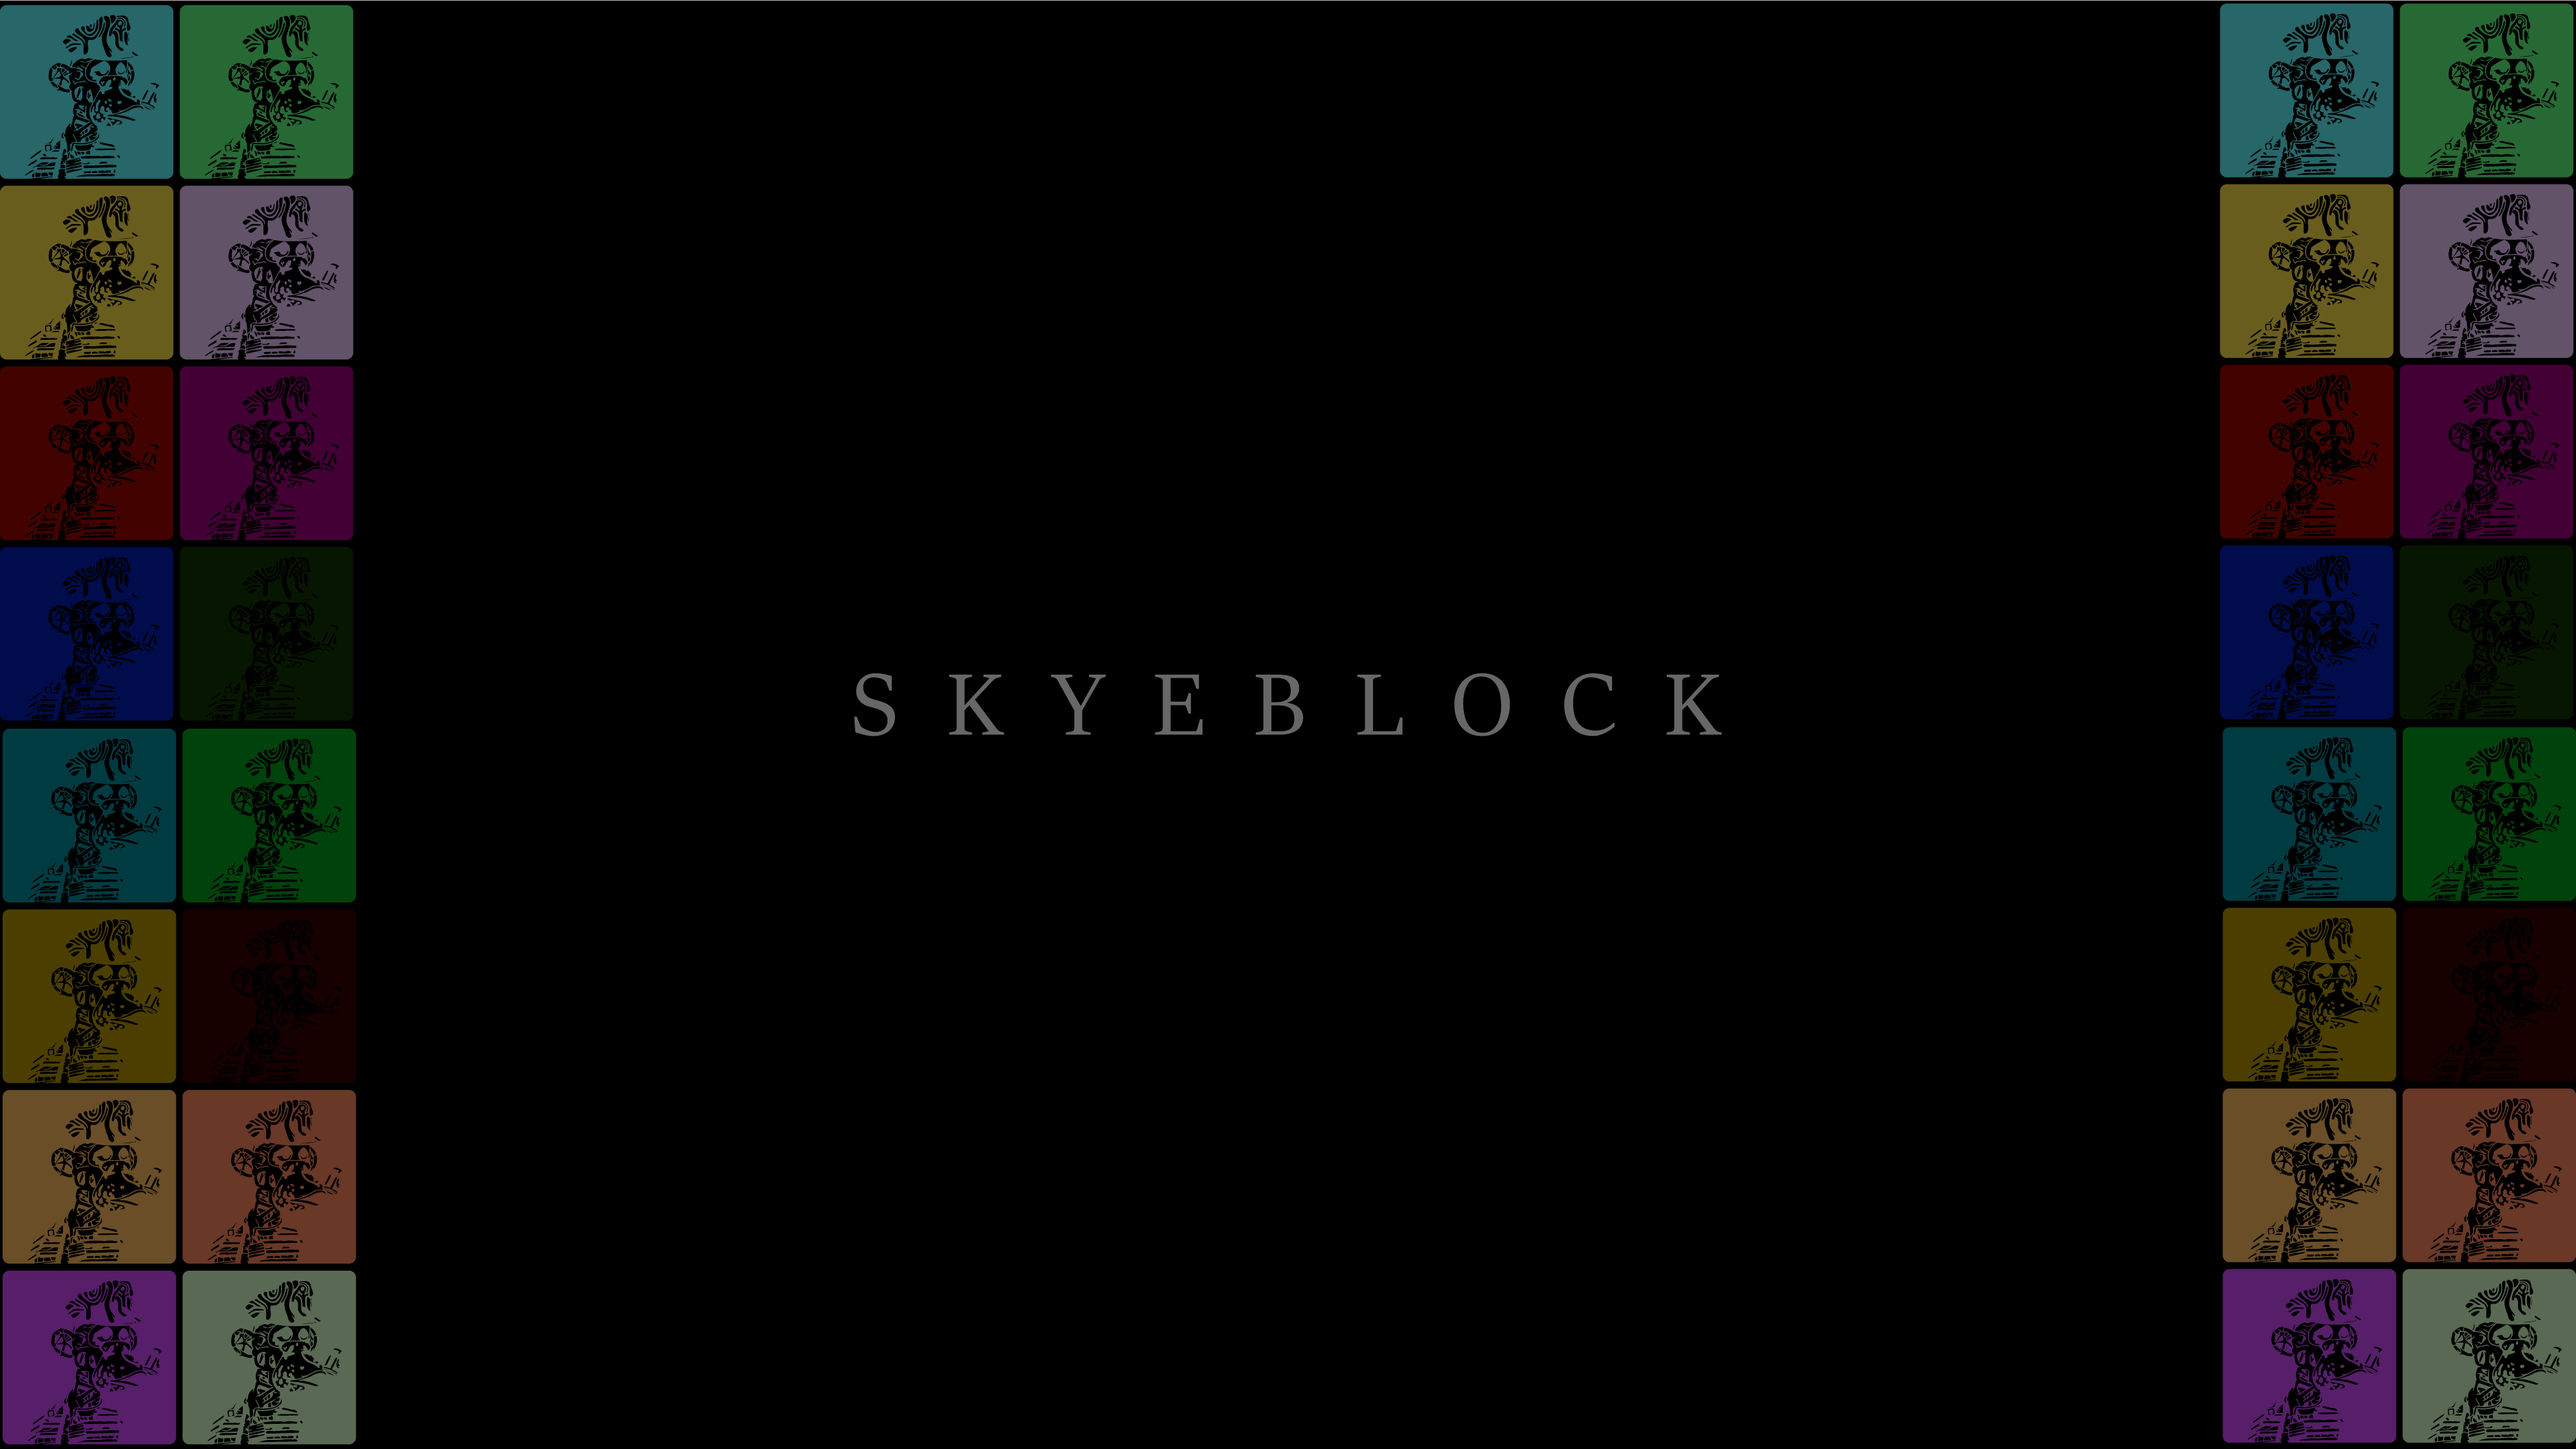
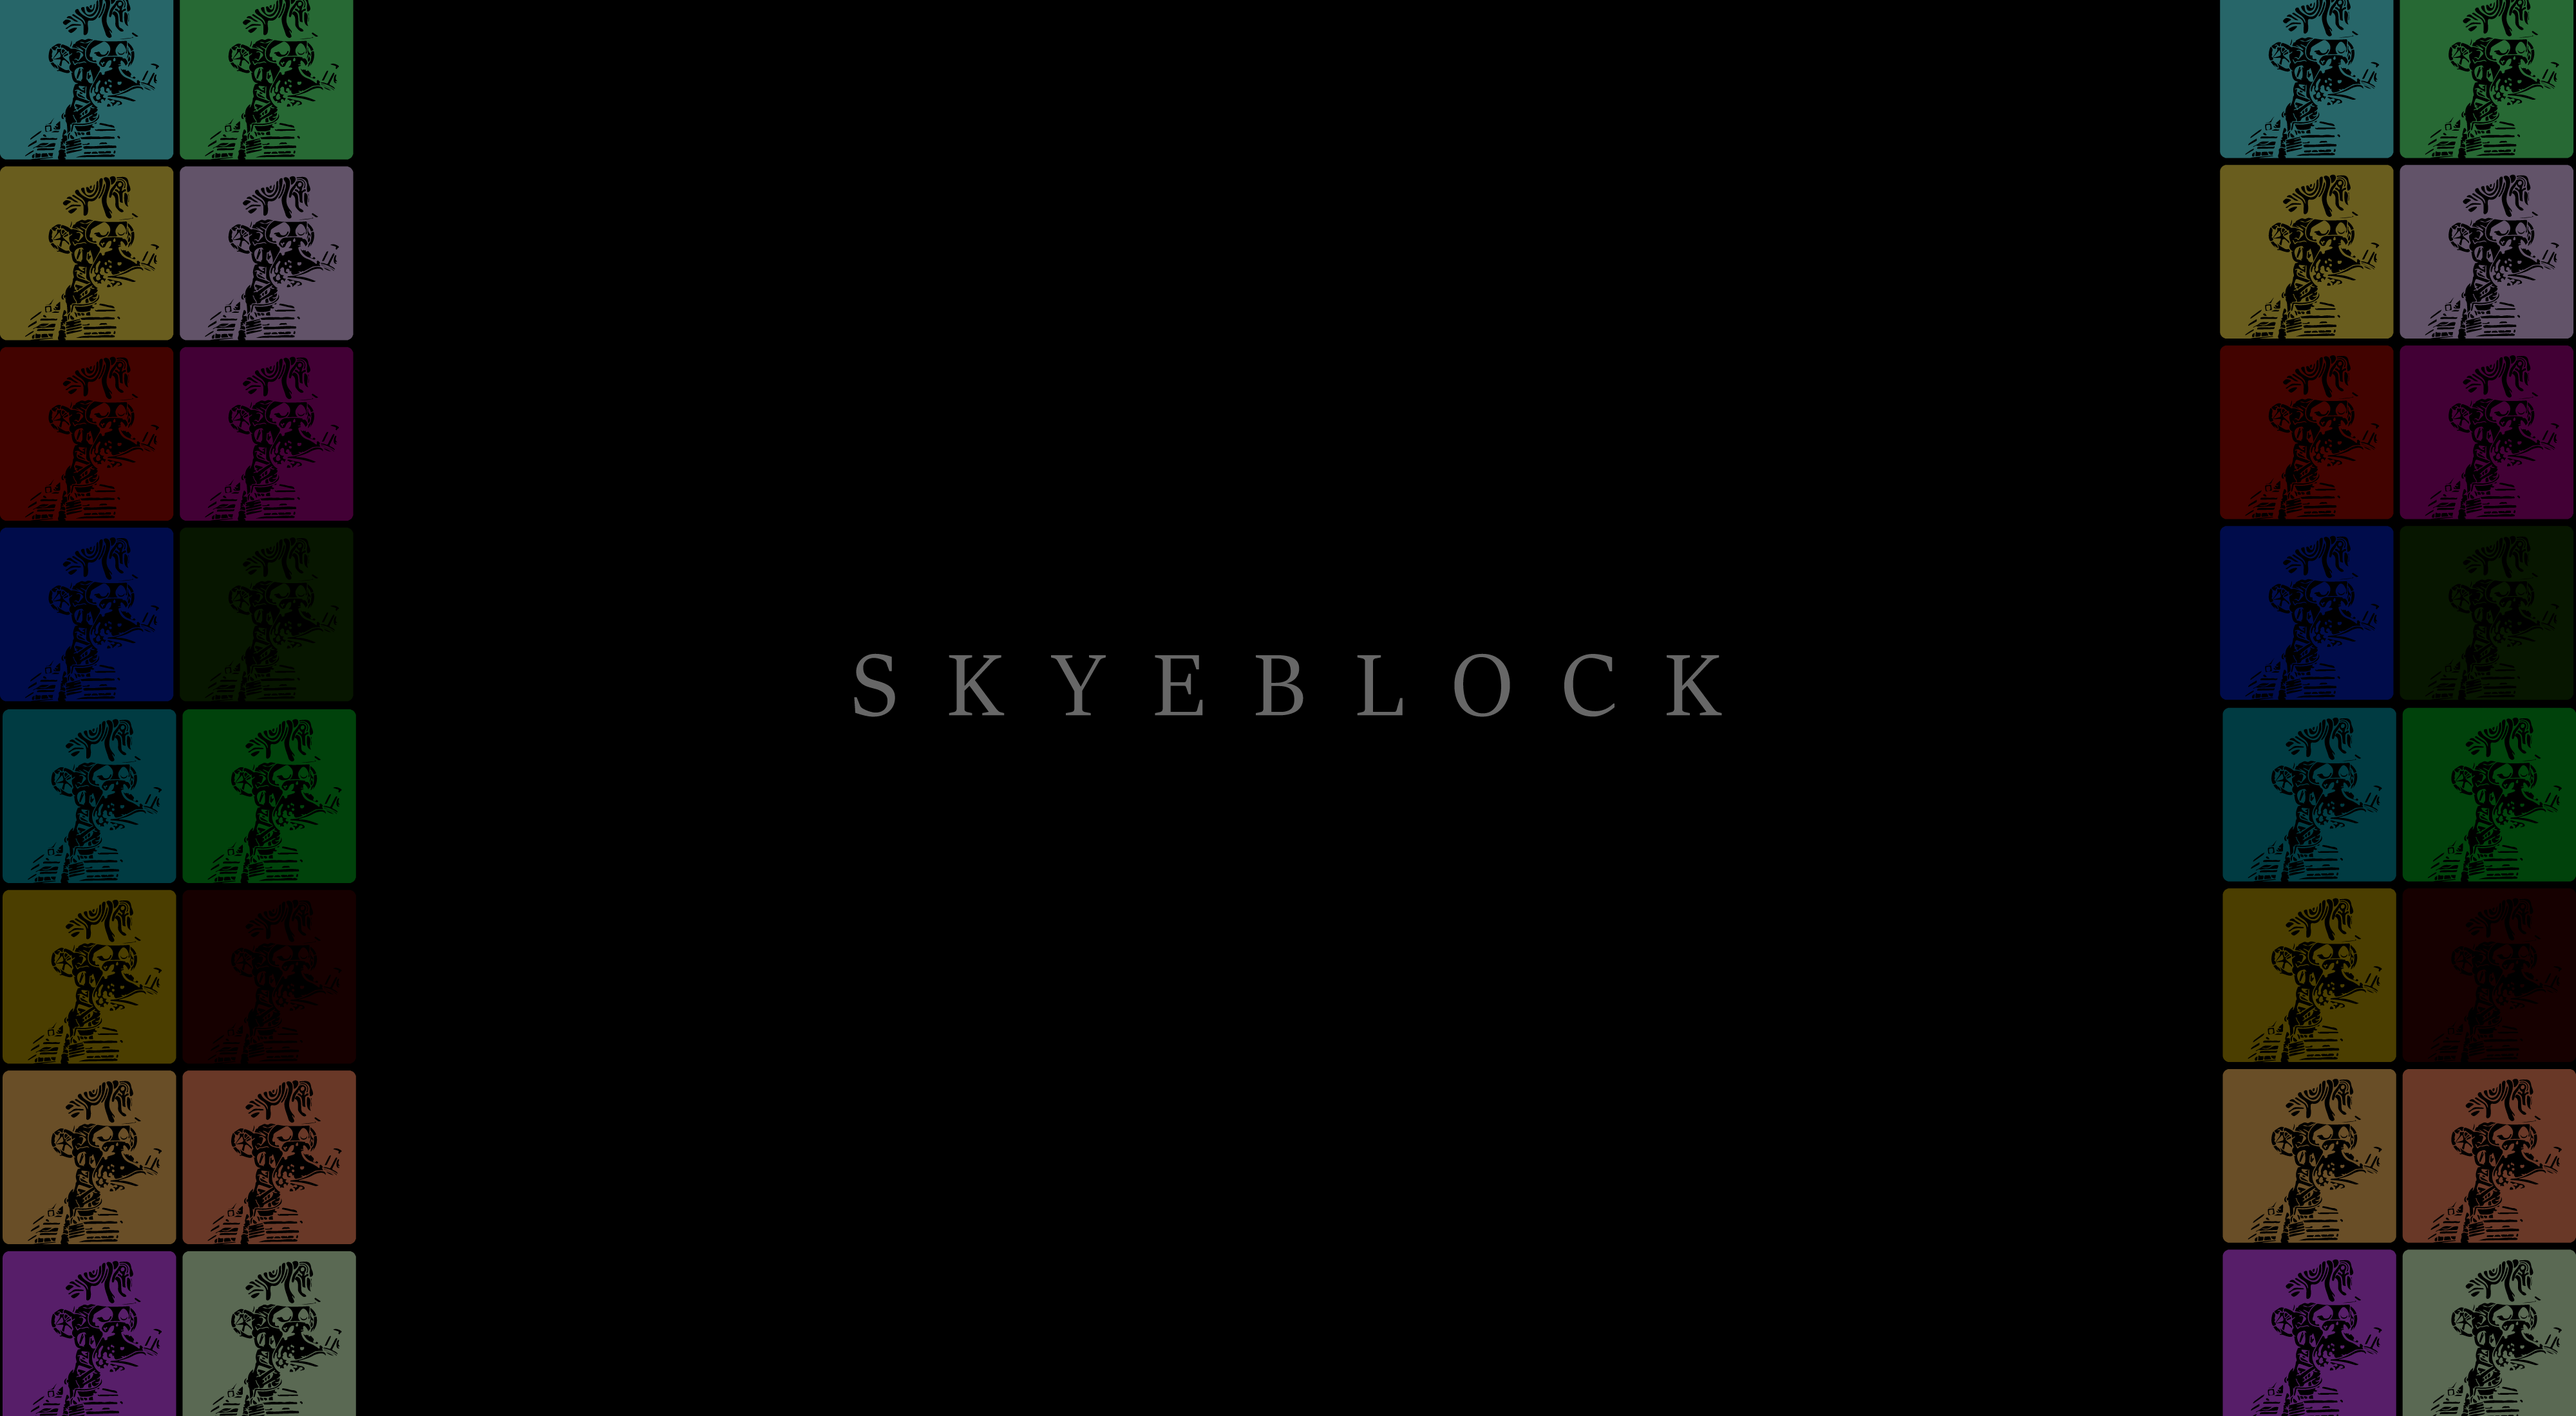
sd

diff --git a/styles/MBA_index.css b/styles/MBA_index.css
@@ -9,7 +9,7 @@ p {
 }
 
 #top_border {
-    height: 34vh;
+    height: 40vh;
     position: fixed;
     top: 0vh;
     left: 0;
@@ -97,18 +97,18 @@ p {
     display: flex;
     justify-content: center;
     align-items: flex-end;
-    background-image: url(../images/DAVIE/top_bk.jpg);
+    background-image: url(../images/DAVIE/top_bk.png);
 
     background-repeat: no-repeat;
-    background-size: cover;
-    padding-bottom: 10vh;
+    background-size: contain;
+    padding-bottom: 7vh;
     /* padding-bottom: 10vh; */
 
 
 }
 
 #CF_poster_bk {
-    background-image: url(../images/DAVIE/mid_bk.jpg);
+    background-image: url(../images/DAVIE/mid_bk.png);
     background-repeat: repeat-y;
     width: 100vw;
     background-size: contain;

diff --git a/index.html b/index.html
@@ -19,6 +19,7 @@
 <style>
     body {
         overflow-x: hidden;
+        width: 100vw;
     }
 </style>
 
